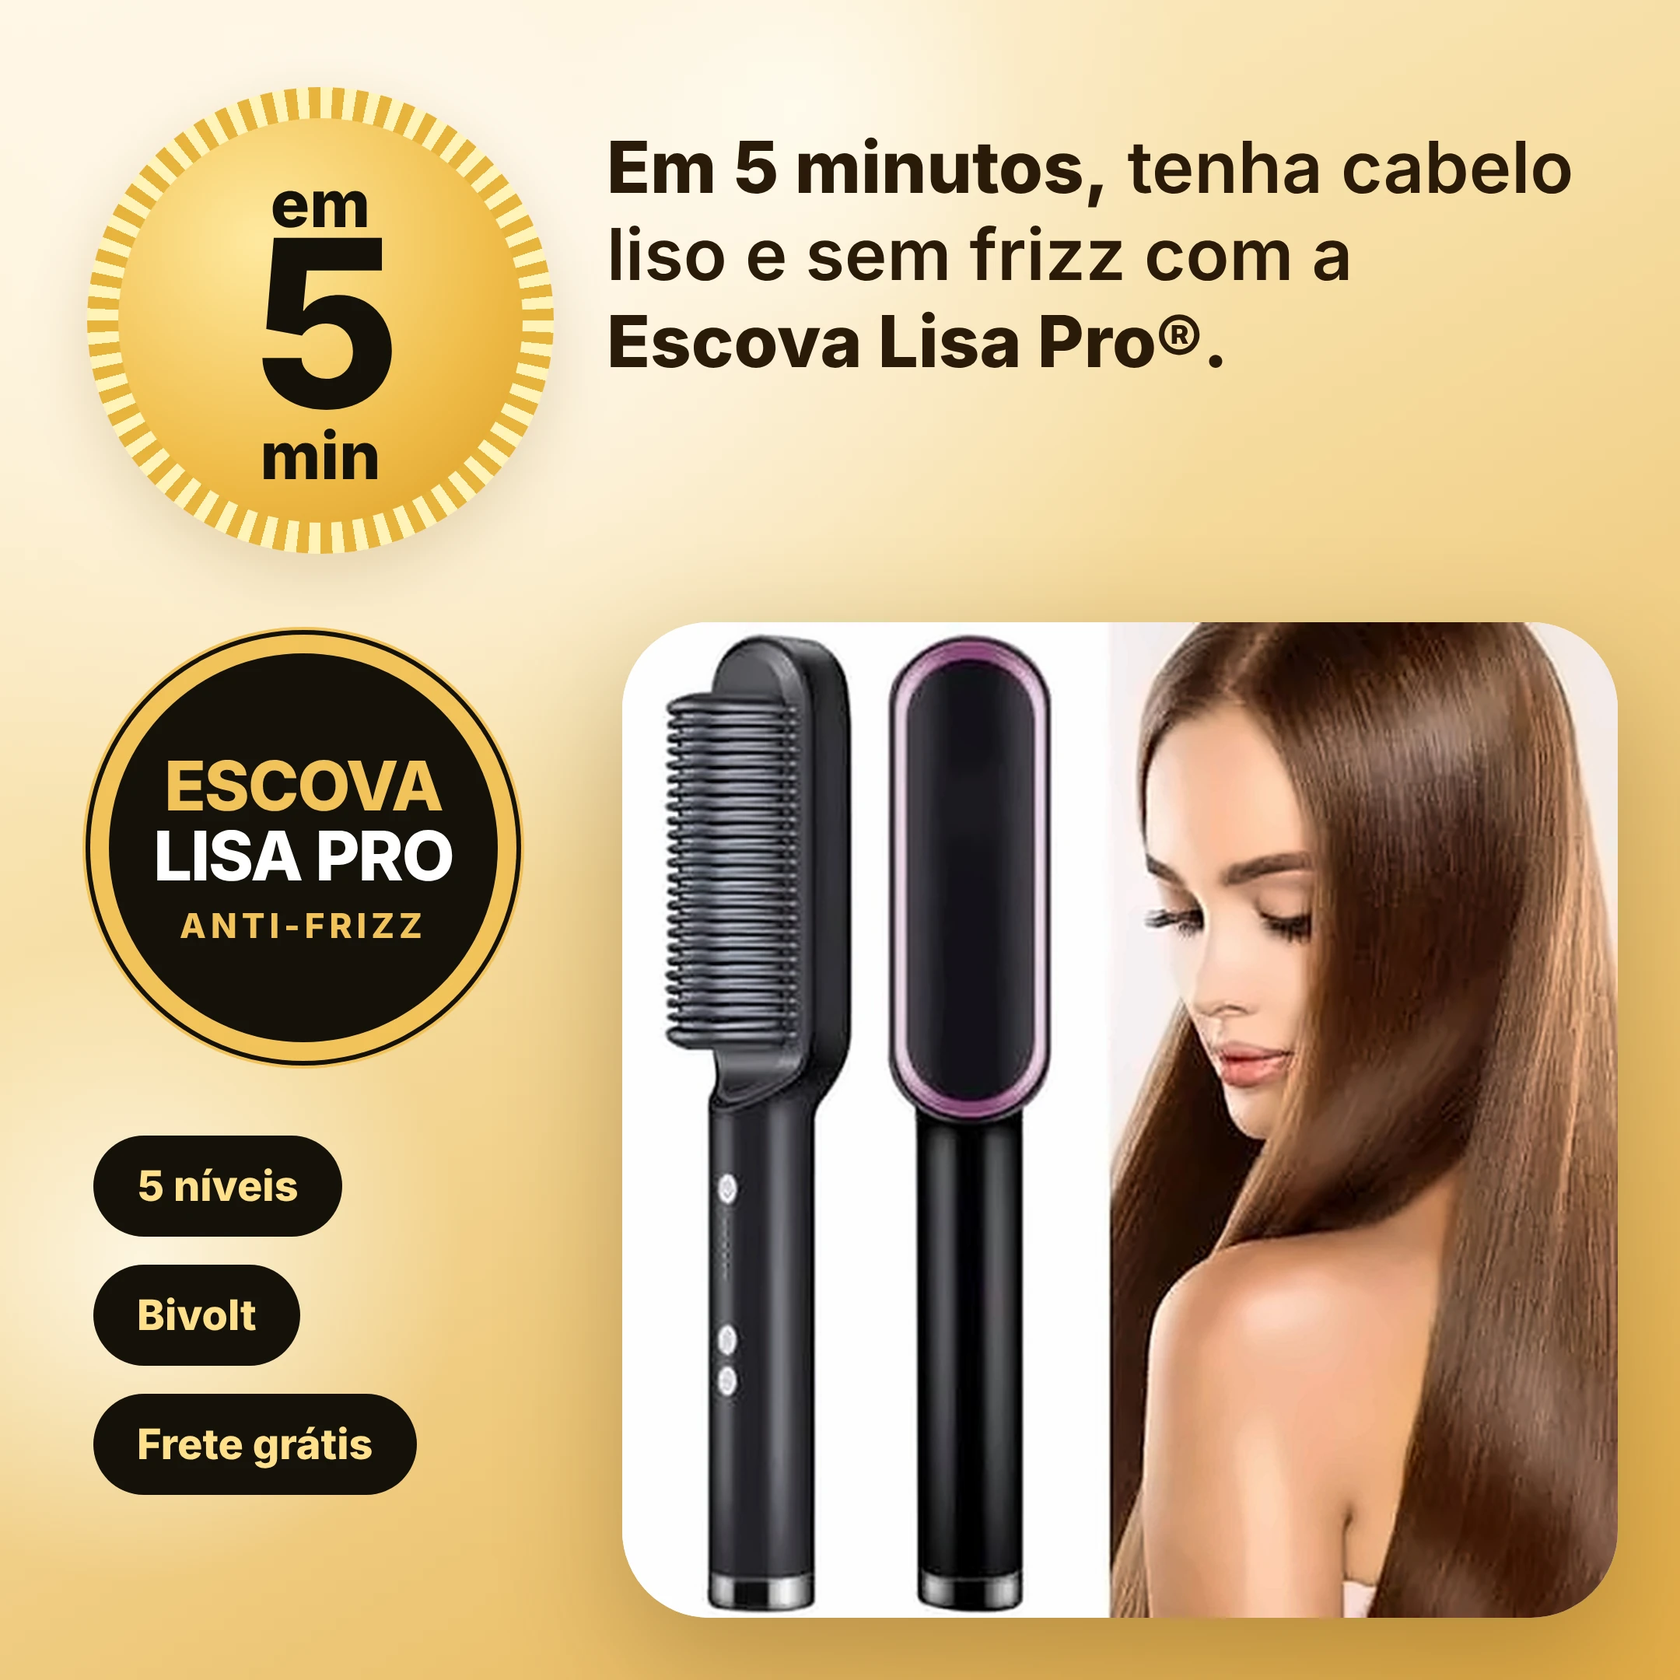
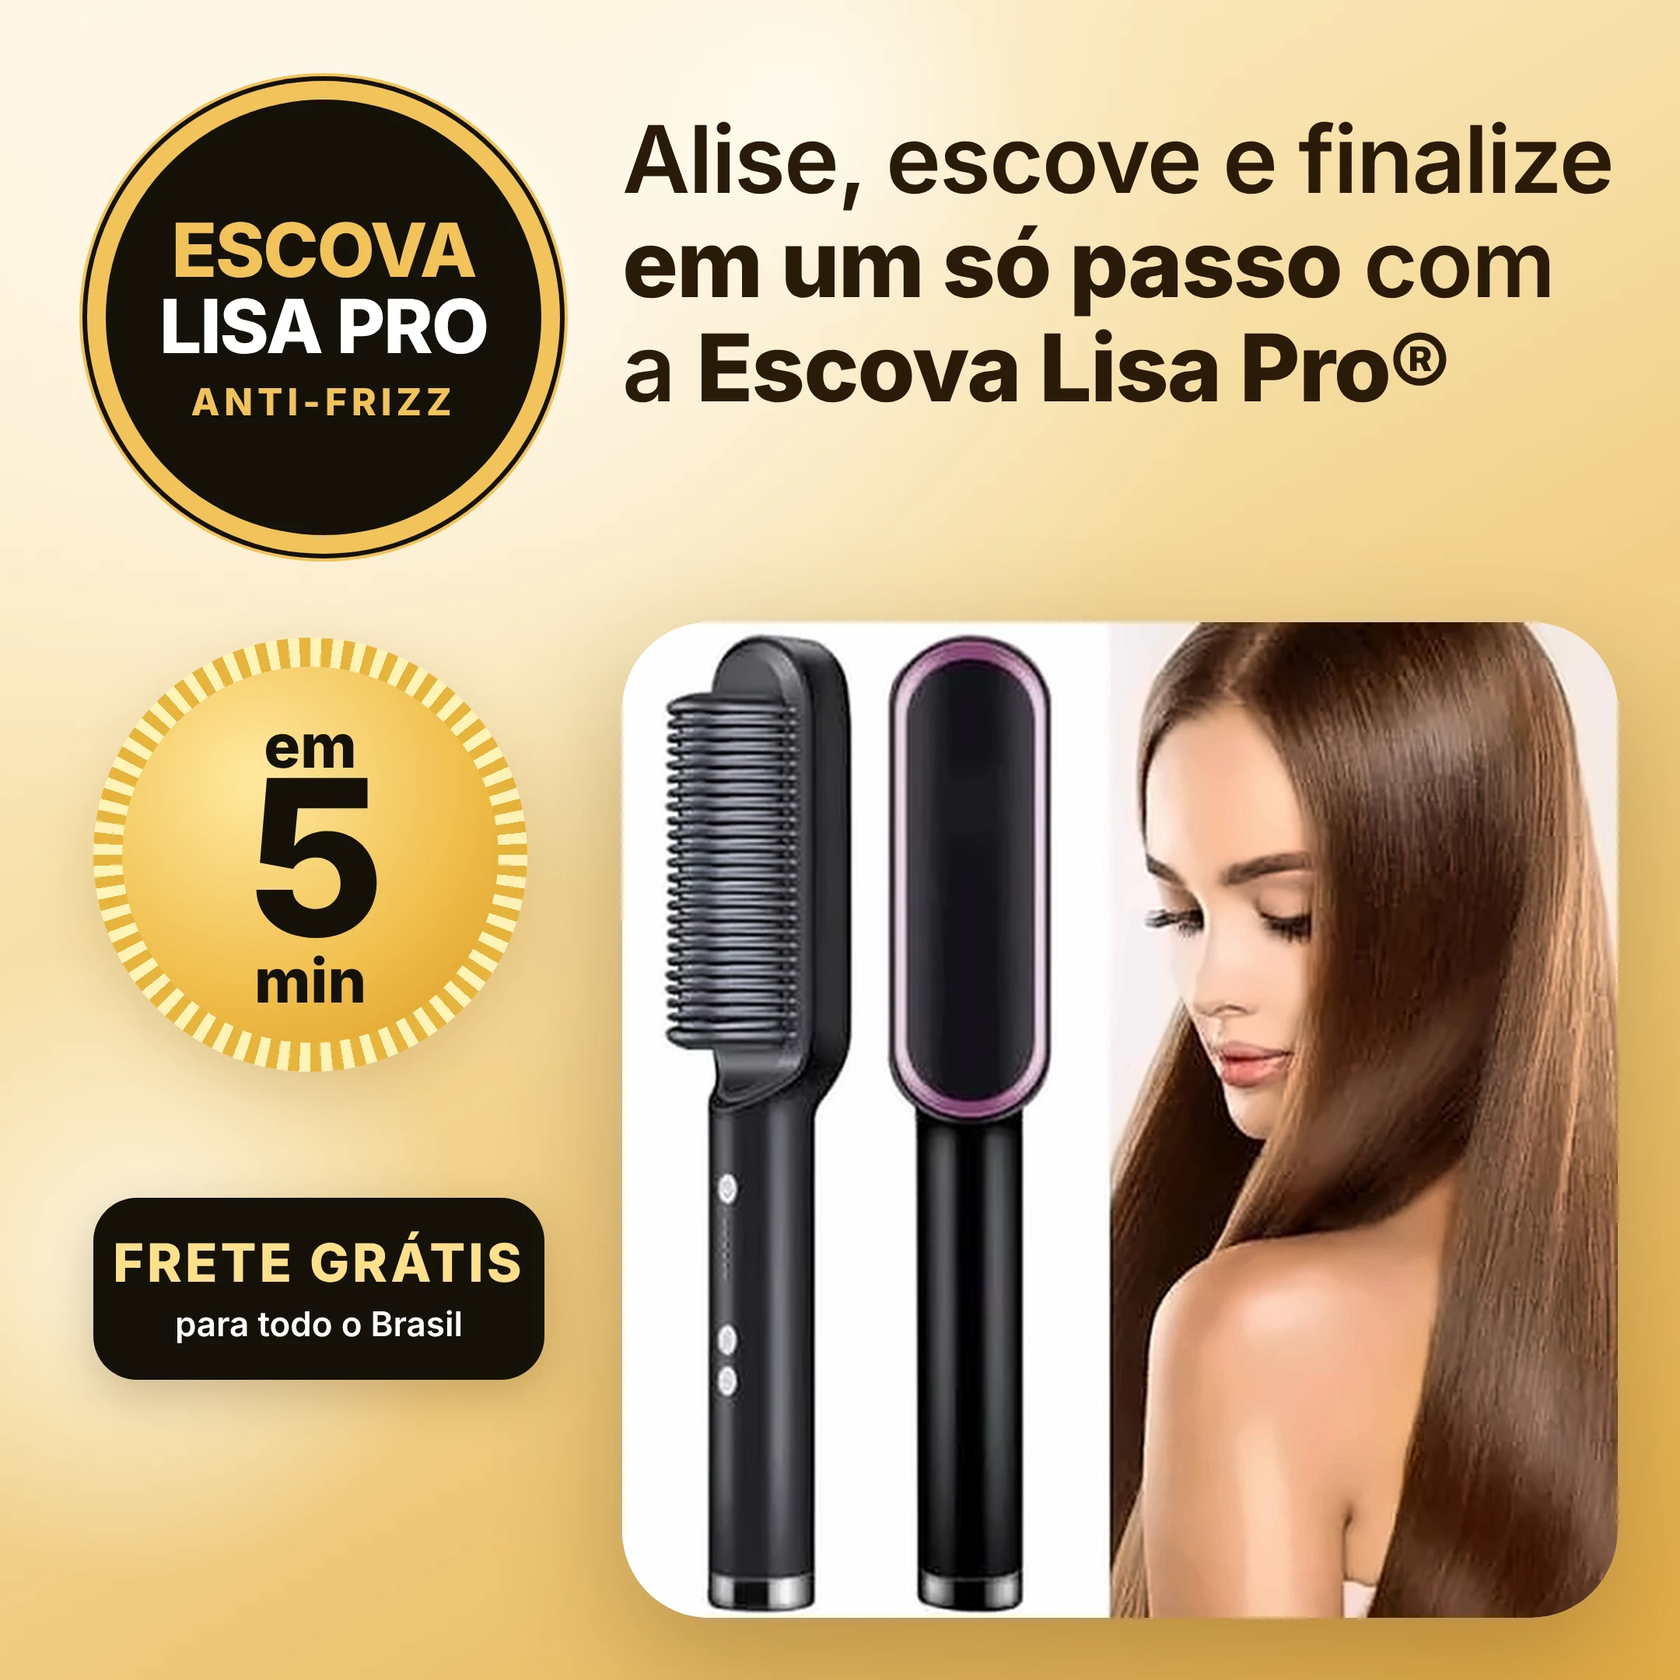
Capa reorganizada: selo da marca no topo, texto maior e selo 5 min embaixo
Claude-Session: https://claude.ai/code/session_01KeLqAk6fDKmQByf4pKhdDU

Changed region(s): [[0.031, 0.031, 0.9616, 0.3412], [0.031, 0.3722, 0.3412, 0.8995]]

diff --git a/index.html b/index.html
@@ -1,7 +1,7 @@
 <!doctype html>
-<html lang="pt-BR"><head><meta charset="utf-8"><meta name="viewport" content="width=device-width,initial-scale=1"><meta name="theme-color" content="#faf8f3"><title>Escova Lisa Pro | Escova Alisadora 5 em 1</title><meta name="description" content="Escova Alisadora 5 em 1: alisa, escova e finaliza em um só passo. 5 níveis de temperatura, bivolt automático e frete grátis. R$ 110,00."><link rel="stylesheet" href="styles.css?v=18"><link rel="preload" as="image" href="gallery-01.webp?v=18"><script src="data.js?v=18" defer></script><script src="app.js?v=18" defer></script></head>
+<html lang="pt-BR"><head><meta charset="utf-8"><meta name="viewport" content="width=device-width,initial-scale=1"><meta name="theme-color" content="#faf8f3"><title>Escova Lisa Pro | Escova Alisadora 5 em 1</title><meta name="description" content="Escova Alisadora 5 em 1: alisa, escova e finaliza em um só passo. 5 níveis de temperatura, bivolt automático e frete grátis. R$ 110,00."><link rel="stylesheet" href="styles.css?v=19"><link rel="preload" as="image" href="gallery-01.webp?v=19"><script src="data.js?v=19" defer></script><script src="app.js?v=19" defer></script></head>
 <body><div class="topbar">Alisa, escova e finaliza em um só passo</div><header class="header"><span class="header-note">Cabelo liso e macio<br>todos os dias</span></header>
-<main class="layout"><div class="left"><section class="gallery" aria-label="Imagens do produto"><div class="gallery-main"><img id="main-image" src="gallery-01.webp?v=18" alt="Escova Alisadora 5 em 1 — imagem principal" width="900" height="900" fetchpriority="high"><span class="gallery-label">ESCOVA LISA PRO</span></div><div class="thumbnails"><button class="thumb" type="button" aria-label="Ver imagem 1" aria-pressed="true"><img src="gallery-01.webp?v=18" alt="Miniatura 1" width="1080" height="1080" decoding="async"></button><button class="thumb" type="button" aria-label="Ver imagem 2" aria-pressed="false"><img src="gallery-04.webp?v=18" alt="Miniatura 2" width="1080" height="1080" decoding="async"></button><button class="thumb" type="button" aria-label="Ver imagem 3" aria-pressed="false"><img src="gallery-02.webp?v=18" alt="Miniatura 3" width="1080" height="1080" decoding="async"></button><button class="thumb" type="button" aria-label="Ver imagem 4" aria-pressed="false"><img src="gallery-03.webp?v=18" alt="Miniatura 4" width="1080" height="1080" decoding="async"></button><button class="thumb" type="button" aria-label="Ver imagem 5" aria-pressed="false"><img src="gallery-05.webp?v=18" alt="Miniatura 5" width="1080" height="1080" decoding="async"></button><button class="thumb" type="button" aria-label="Ver imagem 6" aria-pressed="false"><img src="gallery-06.webp?v=18" alt="Miniatura 6" width="1080" height="1080" decoding="async"></button></div><p class="gallery-caption">Selecione uma imagem para conhecer os detalhes.</p></section>
-<section class="description" aria-labelledby="description-heading"><div class="section-heading"><div><span class="eyebrow">Conheça cada detalhe</span><h2 id="description-heading">Cabelo liso, sem complicação.</h2></div><span class="number" aria-hidden="true">01</span></div><div class="story"><figure><img src="banner-01.webp?v=18" width="2160" alt="Oferta Escova Alisadora 5 em 1" loading="lazy" decoding="async"></figure><figure class="has-seal"><img src="banner-02.webp?v=18" width="2160" alt="Cabelos lisos e impecáveis todos os dias" loading="lazy" decoding="async"><img class="seal-anim" src="seal-niveis.png?v=18" alt="" aria-hidden="true" style="left:59.815%;top:54.306%;width:25.741%" loading="lazy"></figure><figure><img src="banner-03.webp?v=18" width="2160" alt="Cabelos lisos em minutos" loading="lazy" decoding="async"></figure><figure><video id="produto-video" controls playsinline preload="metadata" poster="poster.jpg"><source src="video-escova.webm" type="video/webm"><source src="video-escova.mp4" type="video/mp4"></video></figure><figure class="reel"><video id="reel-video" controls playsinline preload="metadata" poster="poster-reel.jpg?v=18"><source src="video-reel.webm?v=18" type="video/webm"><source src="video-reel.mp4?v=18" type="video/mp4"></video></figure><figure><img src="banner-04.webp?v=18" width="2160" alt="Prática, potente e fácil de usar" loading="lazy" decoding="async"></figure><div class="mid-cta"><a class="cta" href="https://pay.kaiross.com.br/dmLbLVXUfgyq">COMPRAR AGORA</a><p>Frete grátis · R$ 110,00</p></div><figure class="has-seal"><img src="banner-05.webp?v=18" width="2160" alt="Funciona em todos os tipos de cabelo" loading="lazy" decoding="async"><img class="seal-anim" src="seal-bivolt.png?v=18" alt="" aria-hidden="true" style="left:72.315%;top:70.13%;width:22.037%" loading="lazy"></figure><figure><img src="banner-10.webp?v=18" width="2160" alt="Escova Lisa Pro" loading="lazy" decoding="async"></figure><figure><img src="banner-06.webp?v=18" width="2160" alt="Por que a Escova Lisa Pro é diferente" loading="lazy" decoding="async"></figure><figure><img src="banner-07.webp?v=18" width="2160" alt="Do cabelo bagunçado ao liso em minutos" loading="lazy" decoding="async"></figure><figure class="ba"><span class="ba-eyebrow">Antes e depois</span><h3>Do volume ao <b>liso</b></h3><div class="ba-grid"><img src="antes-depois-2.webp?v=18" width="1000" height="1000" alt="Antes e depois: cabelo cacheado alisado" loading="lazy" decoding="async"><img src="antes-depois-1.webp?v=18" width="1000" height="1000" alt="Antes e depois: cabelo ondulado alisado" loading="lazy" decoding="async"><img src="antes-depois-3.webp?v=18" width="1000" height="672" alt="Antes e depois: cabelo cacheado alisado" loading="lazy" decoding="async"></div></figure><div class="mid-cta"><a class="cta" href="https://pay.kaiross.com.br/dmLbLVXUfgyq">COMPRAR AGORA</a><p>Frete grátis · R$ 110,00</p></div><figure><img src="banner-08.webp?v=18" width="2160" alt="7 dias para trocas e devoluções" loading="lazy" decoding="async"></figure><figure><img src="banner-09.webp?v=18" width="2160" alt="Dúvidas frequentes e especificações" loading="lazy" decoding="async"></figure></div></section>
+<main class="layout"><div class="left"><section class="gallery" aria-label="Imagens do produto"><div class="gallery-main"><img id="main-image" src="gallery-01.webp?v=19" alt="Escova Alisadora 5 em 1 — imagem principal" width="900" height="900" fetchpriority="high"><span class="gallery-label">ESCOVA LISA PRO</span></div><div class="thumbnails"><button class="thumb" type="button" aria-label="Ver imagem 1" aria-pressed="true"><img src="gallery-01.webp?v=19" alt="Miniatura 1" width="1080" height="1080" decoding="async"></button><button class="thumb" type="button" aria-label="Ver imagem 2" aria-pressed="false"><img src="gallery-04.webp?v=19" alt="Miniatura 2" width="1080" height="1080" decoding="async"></button><button class="thumb" type="button" aria-label="Ver imagem 3" aria-pressed="false"><img src="gallery-02.webp?v=19" alt="Miniatura 3" width="1080" height="1080" decoding="async"></button><button class="thumb" type="button" aria-label="Ver imagem 4" aria-pressed="false"><img src="gallery-03.webp?v=19" alt="Miniatura 4" width="1080" height="1080" decoding="async"></button><button class="thumb" type="button" aria-label="Ver imagem 5" aria-pressed="false"><img src="gallery-05.webp?v=19" alt="Miniatura 5" width="1080" height="1080" decoding="async"></button><button class="thumb" type="button" aria-label="Ver imagem 6" aria-pressed="false"><img src="gallery-06.webp?v=19" alt="Miniatura 6" width="1080" height="1080" decoding="async"></button></div><p class="gallery-caption">Selecione uma imagem para conhecer os detalhes.</p></section>
+<section class="description" aria-labelledby="description-heading"><div class="section-heading"><div><span class="eyebrow">Conheça cada detalhe</span><h2 id="description-heading">Cabelo liso, sem complicação.</h2></div><span class="number" aria-hidden="true">01</span></div><div class="story"><figure><img src="banner-01.webp?v=19" width="2160" alt="Oferta Escova Alisadora 5 em 1" loading="lazy" decoding="async"></figure><figure class="has-seal"><img src="banner-02.webp?v=19" width="2160" alt="Cabelos lisos e impecáveis todos os dias" loading="lazy" decoding="async"><img class="seal-anim" src="seal-niveis.png?v=19" alt="" aria-hidden="true" style="left:59.815%;top:54.306%;width:25.741%" loading="lazy"></figure><figure><img src="banner-03.webp?v=19" width="2160" alt="Cabelos lisos em minutos" loading="lazy" decoding="async"></figure><figure><video id="produto-video" controls playsinline preload="metadata" poster="poster.jpg"><source src="video-escova.webm" type="video/webm"><source src="video-escova.mp4" type="video/mp4"></video></figure><figure class="reel"><video id="reel-video" controls playsinline preload="metadata" poster="poster-reel.jpg?v=19"><source src="video-reel.webm?v=19" type="video/webm"><source src="video-reel.mp4?v=19" type="video/mp4"></video></figure><figure><img src="banner-04.webp?v=19" width="2160" alt="Prática, potente e fácil de usar" loading="lazy" decoding="async"></figure><div class="mid-cta"><a class="cta" href="https://pay.kaiross.com.br/dmLbLVXUfgyq">COMPRAR AGORA</a><p>Frete grátis · R$ 110,00</p></div><figure class="has-seal"><img src="banner-05.webp?v=19" width="2160" alt="Funciona em todos os tipos de cabelo" loading="lazy" decoding="async"><img class="seal-anim" src="seal-bivolt.png?v=19" alt="" aria-hidden="true" style="left:72.315%;top:70.13%;width:22.037%" loading="lazy"></figure><figure><img src="banner-10.webp?v=19" width="2160" alt="Escova Lisa Pro" loading="lazy" decoding="async"></figure><figure><img src="banner-06.webp?v=19" width="2160" alt="Por que a Escova Lisa Pro é diferente" loading="lazy" decoding="async"></figure><figure><img src="banner-07.webp?v=19" width="2160" alt="Do cabelo bagunçado ao liso em minutos" loading="lazy" decoding="async"></figure><figure class="ba"><span class="ba-eyebrow">Antes e depois</span><h3>Do volume ao <b>liso</b></h3><div class="ba-grid"><img src="antes-depois-2.webp?v=19" width="1000" height="1000" alt="Antes e depois: cabelo cacheado alisado" loading="lazy" decoding="async"><img src="antes-depois-1.webp?v=19" width="1000" height="1000" alt="Antes e depois: cabelo ondulado alisado" loading="lazy" decoding="async"><img src="antes-depois-3.webp?v=19" width="1000" height="672" alt="Antes e depois: cabelo cacheado alisado" loading="lazy" decoding="async"></div></figure><div class="mid-cta"><a class="cta" href="https://pay.kaiross.com.br/dmLbLVXUfgyq">COMPRAR AGORA</a><p>Frete grátis · R$ 110,00</p></div><figure><img src="banner-08.webp?v=19" width="2160" alt="7 dias para trocas e devoluções" loading="lazy" decoding="async"></figure><figure><img src="banner-09.webp?v=19" width="2160" alt="Dúvidas frequentes e especificações" loading="lazy" decoding="async"></figure></div></section>
 <section class="reviews" id="reviews" aria-labelledby="reviews-heading" hidden><div class="section-heading"><div><span class="eyebrow">Avaliações de clientes</span><h2 id="reviews-heading">Quem comprou, avaliou.</h2></div><div class="review-controls"><button type="button" class="arrow" id="previous-review" aria-label="Depoimento anterior">←</button><button type="button" class="arrow" id="next-review" aria-label="Próximo depoimento">→</button></div></div><p class="review-intro">Avaliações reais de clientes que compraram em nossa loja, sobre a entrega e a experiência de compra.</p><div class="review-grid" id="review-grid" tabindex="0" role="region" aria-label="Depoimentos de clientes" aria-roledescription="carrossel"></div><p class="review-status" id="review-status" aria-live="polite"></p></section><div class="closing"><p>Praticidade para ter o cabelo liso todos os dias.</p><a class="cta" href="https://pay.kaiross.com.br/dmLbLVXUfgyq">COMPRAR AGORA</a></div><div class="bottom">Escova Lisa Pro · Escova Alisadora 5 em 1</div></div>
 <aside class="offer" aria-label="Oferta da escova alisadora"><div class="offer-top"><span class="offer-tag">SUA NOVA ALIADA</span></div><h1>Escova Alisadora<br>5 em 1<span>Escova Lisa Pro</span></h1><p class="offer-copy">Alisa e escova em um único movimento, com 5 níveis de temperatura e bivolt automático. Praticidade em casa e em viagens.</p><div class="price-box"><div class="price-label">Preço especial</div><div class="price-old">De R$ 126,50</div><div class="price"><small>R$</small> 110,00</div><div class="payment">Sua Escova Lisa Pro, pronta para acompanhar você.</div></div><a class="cta" href="https://pay.kaiross.com.br/dmLbLVXUfgyq">COMPRAR AGORA</a><p class="shipping"><span aria-hidden="true">✓</span> Frete grátis para todo o Brasil</p><div class="offer-benefits"><div class="benefit"><svg viewBox="0 0 24 24" fill="none" stroke="currentColor" stroke-width="1.5" aria-hidden="true"><path d="M3 6h11v11H3zM14 10h4l3 4v3h-7"/><circle cx="7" cy="18" r="2"/><circle cx="18" cy="18" r="2"/></svg><strong>Envio de 2 a 5 dias</strong>Praticidade desde a compra</div><div class="benefit"><svg viewBox="0 0 24 24" fill="none" stroke="currentColor" stroke-width="1.5" aria-hidden="true"><path d="M12 3l8 3v6c0 5-8 9-8 9s-8-4-8-9V6zM8 12l3 3 5-6"/></svg><strong>Garantia em nossa loja</strong>7 dias para trocas e devoluções</div></div></aside></main><div class="sticky-buy" aria-label="Comprar"><div><s>R$ 126,50</s><strong>R$ 110,00</strong></div><a class="cta" href="https://pay.kaiross.com.br/dmLbLVXUfgyq">COMPRAR AGORA</a></div></body></html>

diff --git a/data.js b/data.js
@@ -1,1 +1,1 @@
-window.pageData={"gallery":[{"file":"gallery-01.webp?v=18","width":1080,"height":1080},{"file":"gallery-04.webp?v=18","width":1080,"height":1080},{"file":"gallery-02.webp?v=18","width":1080,"height":1080},{"file":"gallery-03.webp?v=18","width":1080,"height":1080},{"file":"gallery-05.webp?v=18","width":1080,"height":1080},{"file":"gallery-06.webp?v=18","width":1080,"height":1080}],"reviews":[{"name": "Luciano Monteiro", "rating": 4, "text": "Fico muito contente de saber que a loja é confiável. Estava com receio de comprar mas valeu muito apena! brigadaoo tmj!"}, {"name": "Maria Galvão", "rating": 5, "text": "Muito bom, o produto chegou antes do previsto e exatamente como mostrado no site.. Bom msm.."}, {"name": "Raiam Maldonado", "rating": 5, "text": "Pedido chegou ok, bem embalado, o que pedi e no prazo que deram"}, {"name": "Heitor Alvim", "rating": 5, "text": "Conheci a loja através de amigos que me recomendaram, preço acessível, qualidade e transparencia nas informações é boa. O produto é magnifico"}, {"name": "Bianca Nunes", "rating": 5, "text": "Pr Estou mega satisfeita. Esperava qualidade mas isso me surpreendeu.. Mt mt bom!"}, {"name": "Gael Ourique", "rating": 5, "text": "Uau, assim que chegou vim escrever um comentário. Prazo de entrega rápido, muito legal, muito igual ao anuncio"}, {"name": "Gabrielle Silva", "rating": 4, "text": "Gostaria agradecer pelo produto de qualidade que recebi. Muito bom. Passando também para pontuar a eficiência na entrega. Que Deus os abençoe hj e sempre."}, {"name": "Natasha Maia", "rating": 5, "text": "Muito dez!"}, {"name": "Susane Goulart", "rating": 5, "text": "A entrega foi muito rápidA e amei super recomendo... até a próxima, pois vou comprar de novo😅😁 Parabéns essa loja sensacional 👏👏"}]};
+window.pageData={"gallery":[{"file":"gallery-01.webp?v=19","width":1080,"height":1080},{"file":"gallery-04.webp?v=19","width":1080,"height":1080},{"file":"gallery-02.webp?v=19","width":1080,"height":1080},{"file":"gallery-03.webp?v=19","width":1080,"height":1080},{"file":"gallery-05.webp?v=19","width":1080,"height":1080},{"file":"gallery-06.webp?v=19","width":1080,"height":1080}],"reviews":[{"name": "Luciano Monteiro", "rating": 4, "text": "Fico muito contente de saber que a loja é confiável. Estava com receio de comprar mas valeu muito apena! brigadaoo tmj!"}, {"name": "Maria Galvão", "rating": 5, "text": "Muito bom, o produto chegou antes do previsto e exatamente como mostrado no site.. Bom msm.."}, {"name": "Raiam Maldonado", "rating": 5, "text": "Pedido chegou ok, bem embalado, o que pedi e no prazo que deram"}, {"name": "Heitor Alvim", "rating": 5, "text": "Conheci a loja através de amigos que me recomendaram, preço acessível, qualidade e transparencia nas informações é boa. O produto é magnifico"}, {"name": "Bianca Nunes", "rating": 5, "text": "Pr Estou mega satisfeita. Esperava qualidade mas isso me surpreendeu.. Mt mt bom!"}, {"name": "Gael Ourique", "rating": 5, "text": "Uau, assim que chegou vim escrever um comentário. Prazo de entrega rápido, muito legal, muito igual ao anuncio"}, {"name": "Gabrielle Silva", "rating": 4, "text": "Gostaria agradecer pelo produto de qualidade que recebi. Muito bom. Passando também para pontuar a eficiência na entrega. Que Deus os abençoe hj e sempre."}, {"name": "Natasha Maia", "rating": 5, "text": "Muito dez!"}, {"name": "Susane Goulart", "rating": 5, "text": "A entrega foi muito rápidA e amei super recomendo... até a próxima, pois vou comprar de novo😅😁 Parabéns essa loja sensacional 👏👏"}]};
